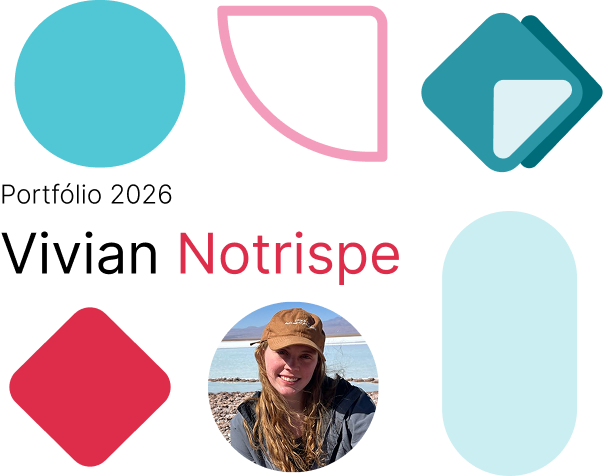
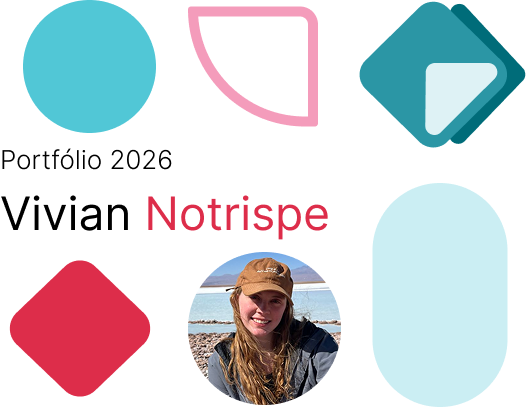
Atualiza thumbnail de Open Graph para v2 (menos cortada)
Troca a imagem por uma versão v2 com composição ajustada para cortar
menos ao ser exibida nos formatos widescreen dos previews de link, e
atualiza og:image:width/height (529x407) de acordo.

diff --git a/projetos/recomendacoes-inteligentes.html b/projetos/recomendacoes-inteligentes.html
@@ -9,8 +9,8 @@
   <meta property="og:url" content="https://portifolio-vivian-notrispe.vercel.app/projetos/recomendacoes-inteligentes.html">
   <meta property="og:title" content="Recomendações Inteligentes: a régua determinística por trás da IA — Vivian Notrispe">
   <meta property="og:image" content="https://portifolio-vivian-notrispe.vercel.app/assets/img/og-thumb.png">
-  <meta property="og:image:width" content="608">
-  <meta property="og:image:height" content="476">
+  <meta property="og:image:width" content="529">
+  <meta property="og:image:height" content="407">
   <meta name="twitter:card" content="summary_large_image">
   <meta name="twitter:title" content="Recomendações Inteligentes: a régua determinística por trás da IA — Vivian Notrispe">
   <meta name="twitter:image" content="https://portifolio-vivian-notrispe.vercel.app/assets/img/og-thumb.png">

diff --git a/projetos/arquitetura-navegacao.html b/projetos/arquitetura-navegacao.html
@@ -9,8 +9,8 @@
   <meta property="og:url" content="https://portifolio-vivian-notrispe.vercel.app/projetos/arquitetura-navegacao.html">
   <meta property="og:title" content="Redesign da navegação: da lógica do produto à lógica do cliente — Vivian Notrispe">
   <meta property="og:image" content="https://portifolio-vivian-notrispe.vercel.app/assets/img/og-thumb.png">
-  <meta property="og:image:width" content="608">
-  <meta property="og:image:height" content="476">
+  <meta property="og:image:width" content="529">
+  <meta property="og:image:height" content="407">
   <meta name="twitter:card" content="summary_large_image">
   <meta name="twitter:title" content="Redesign da navegação: da lógica do produto à lógica do cliente — Vivian Notrispe">
   <meta name="twitter:image" content="https://portifolio-vivian-notrispe.vercel.app/assets/img/og-thumb.png">

diff --git a/projetos/visibilidade-pedidos.html b/projetos/visibilidade-pedidos.html
@@ -9,8 +9,8 @@
   <meta property="og:url" content="https://portifolio-vivian-notrispe.vercel.app/projetos/visibilidade-pedidos.html">
   <meta property="og:title" content="Visibilidade de Pedidos: destravando a instalação — Vivian Notrispe">
   <meta property="og:image" content="https://portifolio-vivian-notrispe.vercel.app/assets/img/og-thumb.png">
-  <meta property="og:image:width" content="608">
-  <meta property="og:image:height" content="476">
+  <meta property="og:image:width" content="529">
+  <meta property="og:image:height" content="407">
   <meta name="twitter:card" content="summary_large_image">
   <meta name="twitter:title" content="Visibilidade de Pedidos: destravando a instalação — Vivian Notrispe">
   <meta name="twitter:image" content="https://portifolio-vivian-notrispe.vercel.app/assets/img/og-thumb.png">

diff --git a/projetos/basic-value.html b/projetos/basic-value.html
@@ -9,8 +9,8 @@
   <meta property="og:url" content="https://portifolio-vivian-notrispe.vercel.app/projetos/basic-value.html">
   <meta property="og:title" content="Basic Value: métrica de ativação para reduzir churn — Vivian Notrispe">
   <meta property="og:image" content="https://portifolio-vivian-notrispe.vercel.app/assets/img/og-thumb.png">
-  <meta property="og:image:width" content="608">
-  <meta property="og:image:height" content="476">
+  <meta property="og:image:width" content="529">
+  <meta property="og:image:height" content="407">
   <meta name="twitter:card" content="summary_large_image">
   <meta name="twitter:title" content="Basic Value: métrica de ativação para reduzir churn — Vivian Notrispe">
   <meta name="twitter:image" content="https://portifolio-vivian-notrispe.vercel.app/assets/img/og-thumb.png">

diff --git a/projetos/_template.html b/projetos/_template.html
@@ -29,8 +29,8 @@
   <meta property="og:url" content="https://portifolio-vivian-notrispe.vercel.app/projetos/nome-do-projeto.html">
   <meta property="og:title" content="[Nome do Projeto] — Vivian Notrispe">
   <meta property="og:image" content="https://portifolio-vivian-notrispe.vercel.app/assets/img/og-thumb.png">
-  <meta property="og:image:width" content="608">
-  <meta property="og:image:height" content="476">
+  <meta property="og:image:width" content="529">
+  <meta property="og:image:height" content="407">
   <meta name="twitter:card" content="summary_large_image">
   <meta name="twitter:title" content="[Nome do Projeto] — Vivian Notrispe">
   <meta name="twitter:image" content="https://portifolio-vivian-notrispe.vercel.app/assets/img/og-thumb.png">

diff --git a/index.html b/index.html
@@ -11,8 +11,8 @@
   <meta property="og:title" content="Vivian Notrispe — Design & Produto">
   <meta property="og:description" content="Portfólio de design e produto de Vivian Notrispe.">
   <meta property="og:image" content="https://portifolio-vivian-notrispe.vercel.app/assets/img/og-thumb.png">
-  <meta property="og:image:width" content="608">
-  <meta property="og:image:height" content="476">
+  <meta property="og:image:width" content="529">
+  <meta property="og:image:height" content="407">
   <meta name="twitter:card" content="summary_large_image">
   <meta name="twitter:title" content="Vivian Notrispe — Design & Produto">
   <meta name="twitter:description" content="Portfólio de design e produto de Vivian Notrispe.">

diff --git a/projetos/index.html b/projetos/index.html
@@ -9,8 +9,8 @@
   <meta property="og:url" content="https://portifolio-vivian-notrispe.vercel.app/projetos/">
   <meta property="og:title" content="Projetos — Vivian Notrispe">
   <meta property="og:image" content="https://portifolio-vivian-notrispe.vercel.app/assets/img/og-thumb.png">
-  <meta property="og:image:width" content="608">
-  <meta property="og:image:height" content="476">
+  <meta property="og:image:width" content="529">
+  <meta property="og:image:height" content="407">
   <meta name="twitter:card" content="summary_large_image">
   <meta name="twitter:title" content="Projetos — Vivian Notrispe">
   <meta name="twitter:image" content="https://portifolio-vivian-notrispe.vercel.app/assets/img/og-thumb.png">

diff --git a/sobre.html b/sobre.html
@@ -11,8 +11,8 @@
   <meta property="og:title" content="Sobre — Vivian Notrispe">
   <meta property="og:description" content="Um pouco sobre Vivian Notrispe, designer de produto.">
   <meta property="og:image" content="https://portifolio-vivian-notrispe.vercel.app/assets/img/og-thumb.png">
-  <meta property="og:image:width" content="608">
-  <meta property="og:image:height" content="476">
+  <meta property="og:image:width" content="529">
+  <meta property="og:image:height" content="407">
   <meta name="twitter:card" content="summary_large_image">
   <meta name="twitter:title" content="Sobre — Vivian Notrispe">
   <meta name="twitter:description" content="Um pouco sobre Vivian Notrispe, designer de produto.">

diff --git a/contato.html b/contato.html
@@ -11,8 +11,8 @@
   <meta property="og:title" content="Contato — Vivian Notrispe">
   <meta property="og:description" content="Fale com Vivian Notrispe sobre novos projetos.">
   <meta property="og:image" content="https://portifolio-vivian-notrispe.vercel.app/assets/img/og-thumb.png">
-  <meta property="og:image:width" content="608">
-  <meta property="og:image:height" content="476">
+  <meta property="og:image:width" content="529">
+  <meta property="og:image:height" content="407">
   <meta name="twitter:card" content="summary_large_image">
   <meta name="twitter:title" content="Contato — Vivian Notrispe">
   <meta name="twitter:description" content="Fale com Vivian Notrispe sobre novos projetos.">
